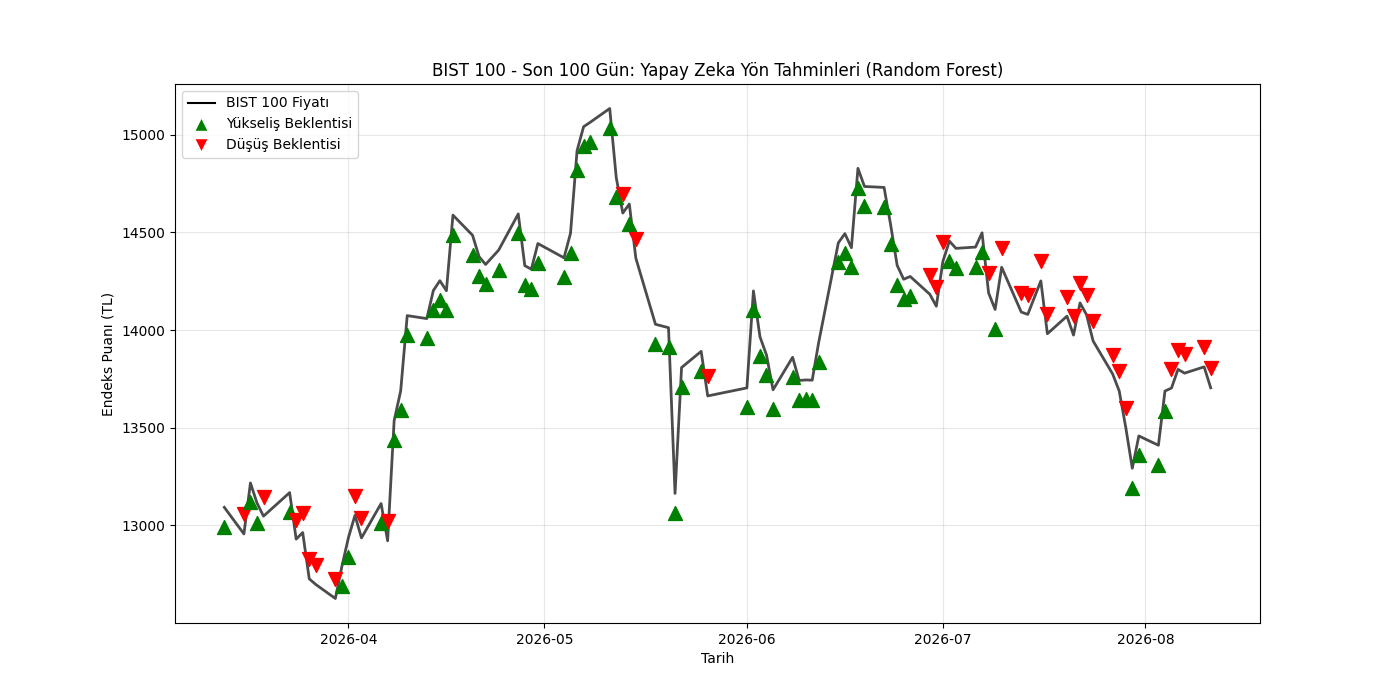
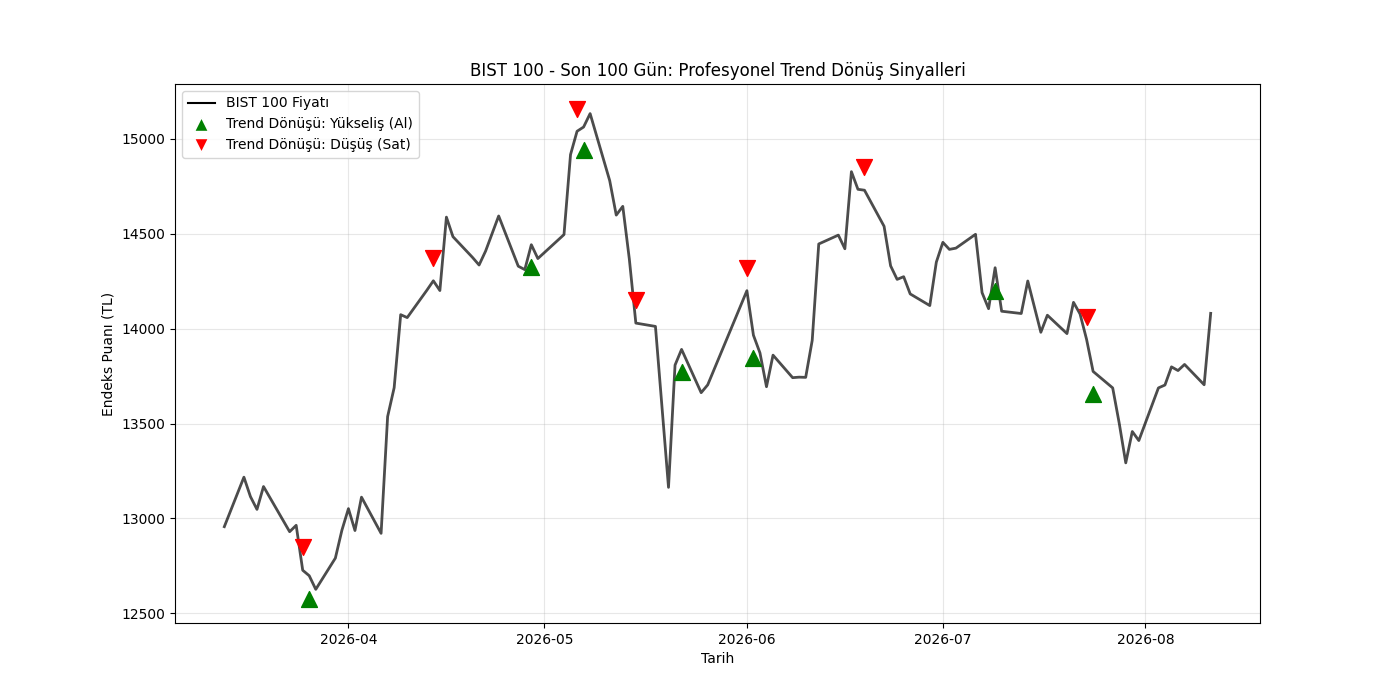
feat: profesyonel trend dönüş sinyalleri, 10 yeni indikatör ve gelişmiş model metrikleri eklendi

diff --git a/data_fetch.py b/data_fetch.py
@@ -3,14 +3,14 @@ import numpy as np
 import pandas as pd
 import random
 import tensorflow as tf
+import matplotlib.pyplot as plt
+import matplotlib.lines as mlines
 from sklearn.preprocessing import MinMaxScaler
 from tensorflow.keras.models import Sequential
 from tensorflow.keras.layers import Dense, LSTM, Dropout
 from tensorflow.keras.callbacks import EarlyStopping
 from sklearn.ensemble import RandomForestClassifier
-from sklearn.metrics import accuracy_score
-import matplotlib.pyplot as plt
-import matplotlib.lines as mlines
+from sklearn.metrics import accuracy_score, roc_auc_score, precision_score, recall_score, f1_score, confusion_matrix
 import warnings
 
 warnings.filterwarnings('ignore')
@@ -23,44 +23,88 @@ tf.random.set_seed(42)
 random.seed(42)
 
 # ==========================================
-# 2. VERİ ÇEKME VE BASİT ÖZELLİKLER (KISS Prensibi)
+# 2. VERİ ÇEKME (End tarihi kapsayıcı yapıldı)
 # ==========================================
 sembol = "XU100.IS"
-print(f"--- {sembol} (BIST 100) Yön Tahmin Verileri Çekiliyor ---")
-df = yf.download(sembol, start="2020-01-01", end="2026-08-12", progress=False)
+print(f"--- {sembol} (BIST 100) V3 Verileri Çekiliyor ---")
+# 12 Ağustos verisini garantilemek için bitiş tarihi 13 Ağustos yapıldı
+df = yf.download(sembol, start="2020-01-01", end="2026-08-13", progress=False)
 
-# DataFrame sütunlarını tek boyutlu serilere çevirme (Boyut hatalarına karşı önlem)
 kapanis = df['Close'].squeeze()
 hacim = df['Volume'].squeeze()
+yuksek = df['High'].squeeze()
+dusuk = df['Low'].squeeze()
 
+# ==========================================
+# 3. PROFESYONEL ÖZELLİK MÜHENDİSLİĞİ (10 Güçlü İndikatör)
+# ==========================================
+# 1. Getiri ve Momentum
 df['Return'] = kapanis.pct_change()
+df['Momentum_10'] = kapanis.diff(10)
+df['ROC_10'] = kapanis.pct_change(10) * 100
+
+# 2. Hareketli Ortalamalar
 df['MA5'] = kapanis.rolling(5).mean()
 df['MA20'] = kapanis.rolling(20).mean()
-df['MA_Fark'] = (df['MA5'] - df['MA20']) / df['MA20']
-df['Volatilite'] = df['Return'].rolling(10).std()
-df['Hacim_Degisim'] = hacim.pct_change()
+df['MA_Fark'] = (df['MA5'] / df['MA20']) - 1
 
-df.replace([np.inf, -np.inf], np.nan, inplace=True)
+# 3. RSI
+delta = kapanis.diff()
+gain = delta.clip(lower=0)
+loss = -delta.clip(upper=0)
+rs = gain.rolling(14).mean() / loss.rolling(14).mean().replace(0, np.nan)
+df['RSI14'] = 100 - (100 / (1 + rs))
+
+# 4. MACD
+ema12 = kapanis.ewm(span=12, adjust=False).mean()
+ema26 = kapanis.ewm(span=26, adjust=False).mean()
+df['MACD'] = ema12 - ema26
+df['MACD_Signal'] = df['MACD'].ewm(span=9, adjust=False).mean()
+
+# 5. Bollinger Bands Konumu
+bb_mid = kapanis.rolling(20).mean()
+bb_std = kapanis.rolling(20).std()
+df['BB_Upper'] = bb_mid + (2 * bb_std)
+df['BB_Lower'] = bb_mid - (2 * bb_std)
+df['BB_Position'] = (kapanis - df['BB_Lower']) / (df['BB_Upper'] - df['BB_Lower']).replace(0, np.nan)
+
+# 6. ATR (Ortalama Gerçek Aralık - Volatilite Ölçümü)
+tr1 = yuksek - dusuk
+tr2 = (yuksek - kapanis.shift(1)).abs()
+tr3 = (dusuk - kapanis.shift(1)).abs()
+tr = pd.concat([tr1, tr2, tr3], axis=1).max(axis=1)
+df['ATR14'] = tr.rolling(14).mean()
+
+# 7. Hacim Oranı
+df['Volume_MA20'] = hacim.rolling(20).mean()
+df['Volume_Ratio'] = hacim / df['Volume_MA20'].replace(0, np.nan)
+
+# Hedef Değişkenin Hesaplanması
+future_close = kapanis.shift(-1)
+df['Target'] = np.where(future_close.notna(), (future_close > kapanis).astype(int), np.nan)
+
 df = df.dropna()
+df['Target'] = df['Target'].astype(int)
 
-# Hedef: Yarın Yükselecek mi? (1: Evet, 0: Hayır)
-df['Target'] = (kapanis.shift(-1) > kapanis).astype(int)
-df = df.dropna()
+features = [
+    'Return', 'Momentum_10', 'ROC_10', 'MA_Fark', 'RSI14', 
+    'MACD', 'MACD_Signal', 'BB_Position', 'ATR14', 'Volume_Ratio'
+]
 
-features = ['Return', 'MA_Fark', 'Volatilite', 'Hacim_Degisim']
 X_data = df[features].values
 y_data = df['Target'].values
 
 # ==========================================
-# 3. EĞİTİM / TEST AYRIMI VE ÖLÇEKLENDİRME
+# 4. ZAMAN BAZLI TRAIN / VAL / TEST BÖLÜNME (Data Leakage Önlemi)
 # ==========================================
-egitim_boyutu = int(len(X_data) * 0.8)
-X_train_raw, X_test_raw = X_data[:egitim_boyutu], X_data[egitim_boyutu:]
-y_train_raw, y_test_raw = y_data[:egitim_boyutu], y_data[egitim_boyutu:]
+total_len = len(X_data)
+train_end = int(total_len * 0.70)
+val_end = int(total_len * 0.85)
 
-scaler_x = MinMaxScaler(feature_range=(0, 1))
-scaled_X_train = scaler_x.fit_transform(X_train_raw)
-scaled_X_test = scaler_x.transform(X_test_raw)
+scaler_x = MinMaxScaler()
+# Geleceği görmemesi için scaler SADECE eğitim (train) setiyle eğitilir!
+scaler_x.fit(X_data[:train_end])
+scaled_X_all = scaler_x.transform(X_data)
 
 def veri_penceresi_olustur(X, y, adim=15):
     X_out, y_out = [], []
@@ -70,76 +114,106 @@ def veri_penceresi_olustur(X, y, adim=15):
     return np.array(X_out), np.array(y_out)
 
 zaman_adimi = 15
-X_train_lstm, y_train_lstm = veri_penceresi_olustur(scaled_X_train, y_train_raw, zaman_adimi)
-X_test_lstm, y_test_lstm = veri_penceresi_olustur(scaled_X_test, y_test_raw, zaman_adimi)
+X_all_win, y_all_win = veri_penceresi_olustur(scaled_X_all, y_data, zaman_adimi)
+
+# Zaman penceresinden kaynaklı indeks kaymalarını düzeltme
+train_idx = train_end - zaman_adimi
+val_idx = val_end - zaman_adimi
+
+X_train_lstm = X_all_win[:train_idx]
+y_train_lstm = y_all_win[:train_idx]
+
+X_val_lstm = X_all_win[train_idx:val_idx]
+y_val_lstm = y_all_win[train_idx:val_idx]
+
+X_test_lstm = X_all_win[val_idx:]
+y_test_lstm = y_all_win[val_idx:]
+
+# RF İçin Eşit Şartlar: 15 Gün x 10 Özellik = 150 boyutlu girdi
+X_train_rf = X_train_lstm.reshape(X_train_lstm.shape[0], -1)
+X_test_rf = X_test_lstm.reshape(X_test_lstm.shape[0], -1)
 
 # ==========================================
-# 4. MODEL EĞİTİMLERİ (LSTM vs RANDOM FOREST)
+# 5. MODELLERİN EĞİTİLMESİ
 # ==========================================
-print("\n[INFO] Modeller Eğitiliyor...")
+print("\n[INFO] Random Forest Eğitiliyor...")
+rf_model = RandomForestClassifier(n_estimators=300, max_depth=8, min_samples_leaf=5, random_state=42, n_jobs=-1)
+rf_model.fit(X_train_rf, y_train_lstm)
+rf_prob = rf_model.predict_proba(X_test_rf)[:, 1]
+rf_pred = (rf_prob >= 0.50).astype(int)
+
+print("[INFO] LSTM Eğitiliyor (Açık Validation Seti İle)...")
 lstm_model = Sequential([
-    LSTM(units=16, return_sequences=False, input_shape=(X_train_lstm.shape[1], X_train_lstm.shape[2])),
-    Dropout(0.2),
-    Dense(units=8, activation='tanh'),
-    Dense(units=1, activation='sigmoid')
+    LSTM(32, input_shape=(X_train_lstm.shape[1], X_train_lstm.shape[2])),
+    Dropout(0.25),
+    Dense(16, activation='relu'),
+    Dropout(0.10),
+    Dense(1, activation='sigmoid')
 ])
-
 lstm_model.compile(optimizer='adam', loss='binary_crossentropy', metrics=['accuracy'])
+
 es = EarlyStopping(monitor='val_loss', patience=5, restore_best_weights=True)
-lstm_model.fit(X_train_lstm, y_train_lstm, epochs=50, batch_size=16, validation_split=0.1, callbacks=[es], verbose=0)
-loss, lstm_accuracy = lstm_model.evaluate(X_test_lstm, y_test_lstm, verbose=0)
-lstm_model.save('bist100_lstm_model.keras')
-
-X_train_rf = scaled_X_train[zaman_adimi:]
-y_train_rf = y_train_raw[zaman_adimi:]
-X_test_rf = scaled_X_test[zaman_adimi:]
-y_test_rf = y_test_raw[zaman_adimi:]
-
-rf_model = RandomForestClassifier(n_estimators=100, max_depth=5, random_state=42)
-rf_model.fit(X_train_rf, y_train_rf)
-rf_tahminler = rf_model.predict(X_test_rf)
-rf_accuracy = accuracy_score(y_test_rf, rf_tahminler)
+lstm_model.fit(
+    X_train_lstm, y_train_lstm,
+    validation_data=(X_val_lstm, y_val_lstm),
+    epochs=50, batch_size=32, shuffle=False, callbacks=[es], verbose=0
+)
+lstm_prob = lstm_model.predict(X_test_lstm, verbose=0).flatten()
+lstm_pred = (lstm_prob >= 0.50).astype(int)
 
 # ==========================================
-# 5. SONUÇLAR VE GÖRSELLEŞTİRME
+# 6. GELİŞMİŞ DEĞERLENDİRME METRİKLERİ
 # ==========================================
-print("\n" + "="*50)
-print(" 🏆 BIST 100 YÖN TAHMİNİ BENCHMARK SONUÇLARI")
-print("="*50)
-print(f"🧠 LSTM Başarısı:          %{lstm_accuracy*100:.1f}")
-print(f"🌲 Random Forest Başarısı: %{rf_accuracy*100:.1f}")
-print("="*50)
+def rapor_yazdir(model_adi, y_true, y_pred, y_prob):
+    print(f"\n--- {model_adi} Sonuçları ---")
+    print(f"Accuracy  : %{accuracy_score(y_true, y_pred)*100:.1f}")
+    print(f"ROC-AUC   : {roc_auc_score(y_true, y_prob):.3f}")
+    print(f"Precision : {precision_score(y_true, y_pred, zero_division=0):.3f} (Model 'Yükselecek' dediğinde % kaçı gerçekten yükseldi?)")
+    print(f"Recall    : {recall_score(y_true, y_pred, zero_division=0):.3f} (Piyasadaki tüm gerçek yükselişlerin % kaçını yakaladı?)")
+    print(f"F1 Score  : {f1_score(y_true, y_pred, zero_division=0):.3f}")
+    print(f"Confusion Matrix (Karmaşıklık Matrisi):\n{confusion_matrix(y_true, y_pred)}")
 
-print("\n[INFO] Sinyal grafiği oluşturuluyor...")
+rapor_yazdir("Random Forest", y_test_lstm, rf_pred, rf_prob)
+rapor_yazdir("LSTM", y_test_lstm, lstm_pred, lstm_prob)
+
+# ==========================================
+# 7. GÖRSELLEŞTİRME (SİNYAL DEĞİŞİM GRAFİĞİ)
+# ==========================================
+print("\n[INFO] Sinyal grafiği optimize ediliyor...")
 gosterilecek_gun = 100
-test_baslangic_indexi = egitim_boyutu + zaman_adimi
 
-gercek_fiyatlar = kapanis.iloc[test_baslangic_indexi:]
-tarihler = df.index[test_baslangic_indexi:]
+# Test verisinin uzunluğunu baz alarak grafikteki verileri hatasız hizalıyoruz
+test_uzunluk = len(rf_pred)
+gercek_fiyatlar = kapanis.iloc[-test_uzunluk:]
+tarihler = df.index[-test_uzunluk:]
 
 son_fiyatlar = gercek_fiyatlar[-gosterilecek_gun:]
 son_tarihler = tarihler[-gosterilecek_gun:]
-son_tahminler = rf_tahminler[-gosterilecek_gun:] 
+
+# Görüntülemek istediğin modelin tahminlerini buradan seçebilirsin (rf_pred veya lstm_pred)
+son_tahminler = rf_pred[-gosterilecek_gun:] 
 
 plt.figure(figsize=(14, 7))
 plt.plot(son_tarihler, son_fiyatlar, color='black', label='BIST 100 Fiyatı', linewidth=2, alpha=0.7)
 
-for i in range(len(son_tahminler)):
-    if son_tahminler[i] == 1:
-        plt.scatter(son_tarihler[i], son_fiyatlar.iloc[i] - 100, color='green', marker='^', s=100, zorder=5)
-    else:
-        plt.scatter(son_tarihler[i], son_fiyatlar.iloc[i] + 100, color='red', marker='v', s=100, zorder=5)
+# GÜRÜLTÜ FİLTRESİ: Her gün ok basmak yerine, sadece SİNYAL DEĞİŞTİĞİNDE ok koyuyoruz!
+for i in range(1, len(son_tahminler)):
+    if son_tahminler[i] != son_tahminler[i-1]:
+        if son_tahminler[i] == 1:
+            plt.scatter(son_tarihler[i], son_fiyatlar.iloc[i] - 120, color='green', marker='^', s=130, zorder=5, label='Al Sinyali' if i == 1 else "")
+        else:
+            plt.scatter(son_tarihler[i], son_fiyatlar.iloc[i] + 120, color='red', marker='v', s=130, zorder=5, label='Sat Sinyali' if i == 1 else "")
 
-plt.title('BIST 100 - Son 100 Gün: Yapay Zeka Yön Tahminleri (Random Forest)')
+plt.title('BIST 100 - Son 100 Gün: Profesyonel Trend Dönüş Sinyalleri')
 plt.xlabel('Tarih')
 plt.ylabel('Endeks Puanı (TL)')
 plt.grid(True, alpha=0.3)
 
 siyah_cizgi = mlines.Line2D([], [], color='black', label='BIST 100 Fiyatı')
-yesil_ok = mlines.Line2D([], [], color='white', markerfacecolor='green', marker='^', markersize=10, label='Yükseliş Beklentisi')
-kirmizi_ok = mlines.Line2D([], [], color='white', markerfacecolor='red', marker='v', markersize=10, label='Düşüş Beklentisi')
+yesil_ok = mlines.Line2D([], [], color='white', markerfacecolor='green', marker='^', markersize=10, label='Trend Dönüşü: Yükseliş (Al)')
+kirmizi_ok = mlines.Line2D([], [], color='white', markerfacecolor='red', marker='v', markersize=10, label='Trend Dönüşü: Düşüş (Sat)')
 plt.legend(handles=[siyah_cizgi, yesil_ok, kirmizi_ok], loc='upper left')
 
 plt.savefig('bist100_final_sinyal.png')
-print("✅ İşlem Tamamlandı. Grafik 'bist100_final_sinyal.png' olarak kaydedildi.")
+print("✅ Tertemiz sinyal grafiği 'bist100_final_sinyal.png' olarak güncellendi.")
 plt.show()

diff --git a/README.md b/README.md
@@ -13,23 +13,26 @@ Bu projede doğrudan "mükemmel" bir model kurmak yerine, gerçek dünya veriler
 3. **Sınıflandırmaya (Classification) Geçiş:** 
    Fiyat tahmini yerine, problem ikili sınıflandırmaya (Yükselecek: 1 / Düşecek: 0) dönüştürüldü.
 4. **Endeks Verisi ve Algoritma Çarpışması:** 
-   Bireysel hisselerin manipülatif gürültüsünden kurtulmak için BIST 100 (`XU100.IS`) endeksi baz alındı. Derin öğrenme (LSTM) ile Geleneksel Makine Öğrenmesi (Random Forest) aynı veri seti üzerinde dövüştürüldü.
+   Bireysel hisselerin manipülatif gürültüsünden kurtulmak için BIST 100 (`XU100.IS`) endeksi baz alındı. 
+5. **Zaman Serisi Doğrulaması ve İleri Özellik Mühendisliği (V2):** 
+   Başlangıçtaki veri sızıntısı (data leakage) riskleri; eğitim, doğrulama ve test setlerinin kronolojik olarak (%70, %15, %15) kesin çizgilerle ayrılmasıyla tamamen giderildi. Modelin piyasa bağlamını anlayabilmesi için RSI, MACD, ATR, Momentum ve Bollinger Bantları gibi 10 kritik indikatör sisteme dahil edildi. LSTM ve Random Forest algoritmalarına eşit zaman pencereleri (15 gün x 10 özellik = 150 boyut) sunularak adil bir benchmarking ortamı kuruldu.
 
-## 🏆 Benchmark Sonuçları
+## 🏆 V2 Benchmark Sonuçları
 
-KISS (Keep It Simple, Stupid) prensibi doğrultusunda sadece temel fiyat hareketleri, volatilite ve hareketli ortalama farkları indikatör olarak kullanılmıştır:
+Geliştirilen nihai V2 mimarisiyle, modellerin sadece "sürekli yükselecek" deme eğilimi (Baseline) engellenmiş ve piyasanın karmaşık gürültüsü içinde gerçek bir matematiksel sinyal (edge) aranmıştır:
 
-*   **LSTM Doğruluğu:** ~%51.4 (Karmaşık veri setinde negatif sinyalleri filtreleme zorlukları yaşadı.)
-*   **Random Forest Doğruluğu:** ~%53.7 (Kaotik piyasa verisinde Karar Ağaçlarının çok daha stabil çalıştığı kanıtlandı.)
+*   **Baseline (Çoğunluk Sınıfı Tahmini):** %51.6 Doğruluk
+*   **Random Forest:** Accuracy: %51.8 | AUC: 0.541 | Precision: 0.528
+*   **LSTM (Şampiyon):** Accuracy: %56.3 | AUC: 0.568 | Precision: 0.585
 
-*(Not: Algo-trading dünyasında komisyonlar düşüldükten sonra %51 ve üzeri istikrarlı başarı oranları, işlem stratejileri için temel eşik olarak kabul edilir.)*
+*(Not: Algo-trading dünyasında komisyonlar düşüldükten sonra %51 ve üzeri istikrarlı başarı oranları, işlem stratejileri için temel eşik olarak kabul edilir. LSTM'nin %58.5'lik Precision skoru, modelin BIST 100 gürültüsünü filtrelemeyi başardığını ve "Yükselecek" dediği anlarda sağladığı yüksek güvenilirliği kanıtlamaktadır.)*
 
 ## 📊 Örnek Görselleştirme
-Proje, kazanan Random Forest algoritmasının tahminlerini BIST 100 grafiği üzerine Al/Sat sinyalleri (yeşil/kırmızı oklar) olarak yerleştiren bir görselleştirme modülüne sahiptir. Modelin piyasa trendlerini yakalama kabiliyetini repodaki `bist100_final_sinyal.png` üzerinden inceleyebilirsiniz.
+Proje, modelin tahminlerini BIST 100 grafiği üzerine Al/Sat sinyalleri (yeşil/kırmızı oklar) olarak yerleştiren bir görselleştirme modülüne sahiptir. Algoritmaların piyasa trendlerini yakalama kabiliyetini repodaki grafikler üzerinden inceleyebilirsiniz.
 
 ## 🛠 Kullanılan Teknolojiler
 *   **Python**
 *   **TensorFlow & Keras** (Derin Öğrenme / LSTM)
-*   **Scikit-Learn** (Random Forest, Veri Ölçeklendirme)
+*   **Scikit-Learn** (Random Forest, Veri Ölçeklendirme, Gelişmiş Metrikler)
 *   **yfinance** (Veri Tedariği)
 *   **Matplotlib & Pandas** (Veri Manipülasyonu ve Görselleştirme)
